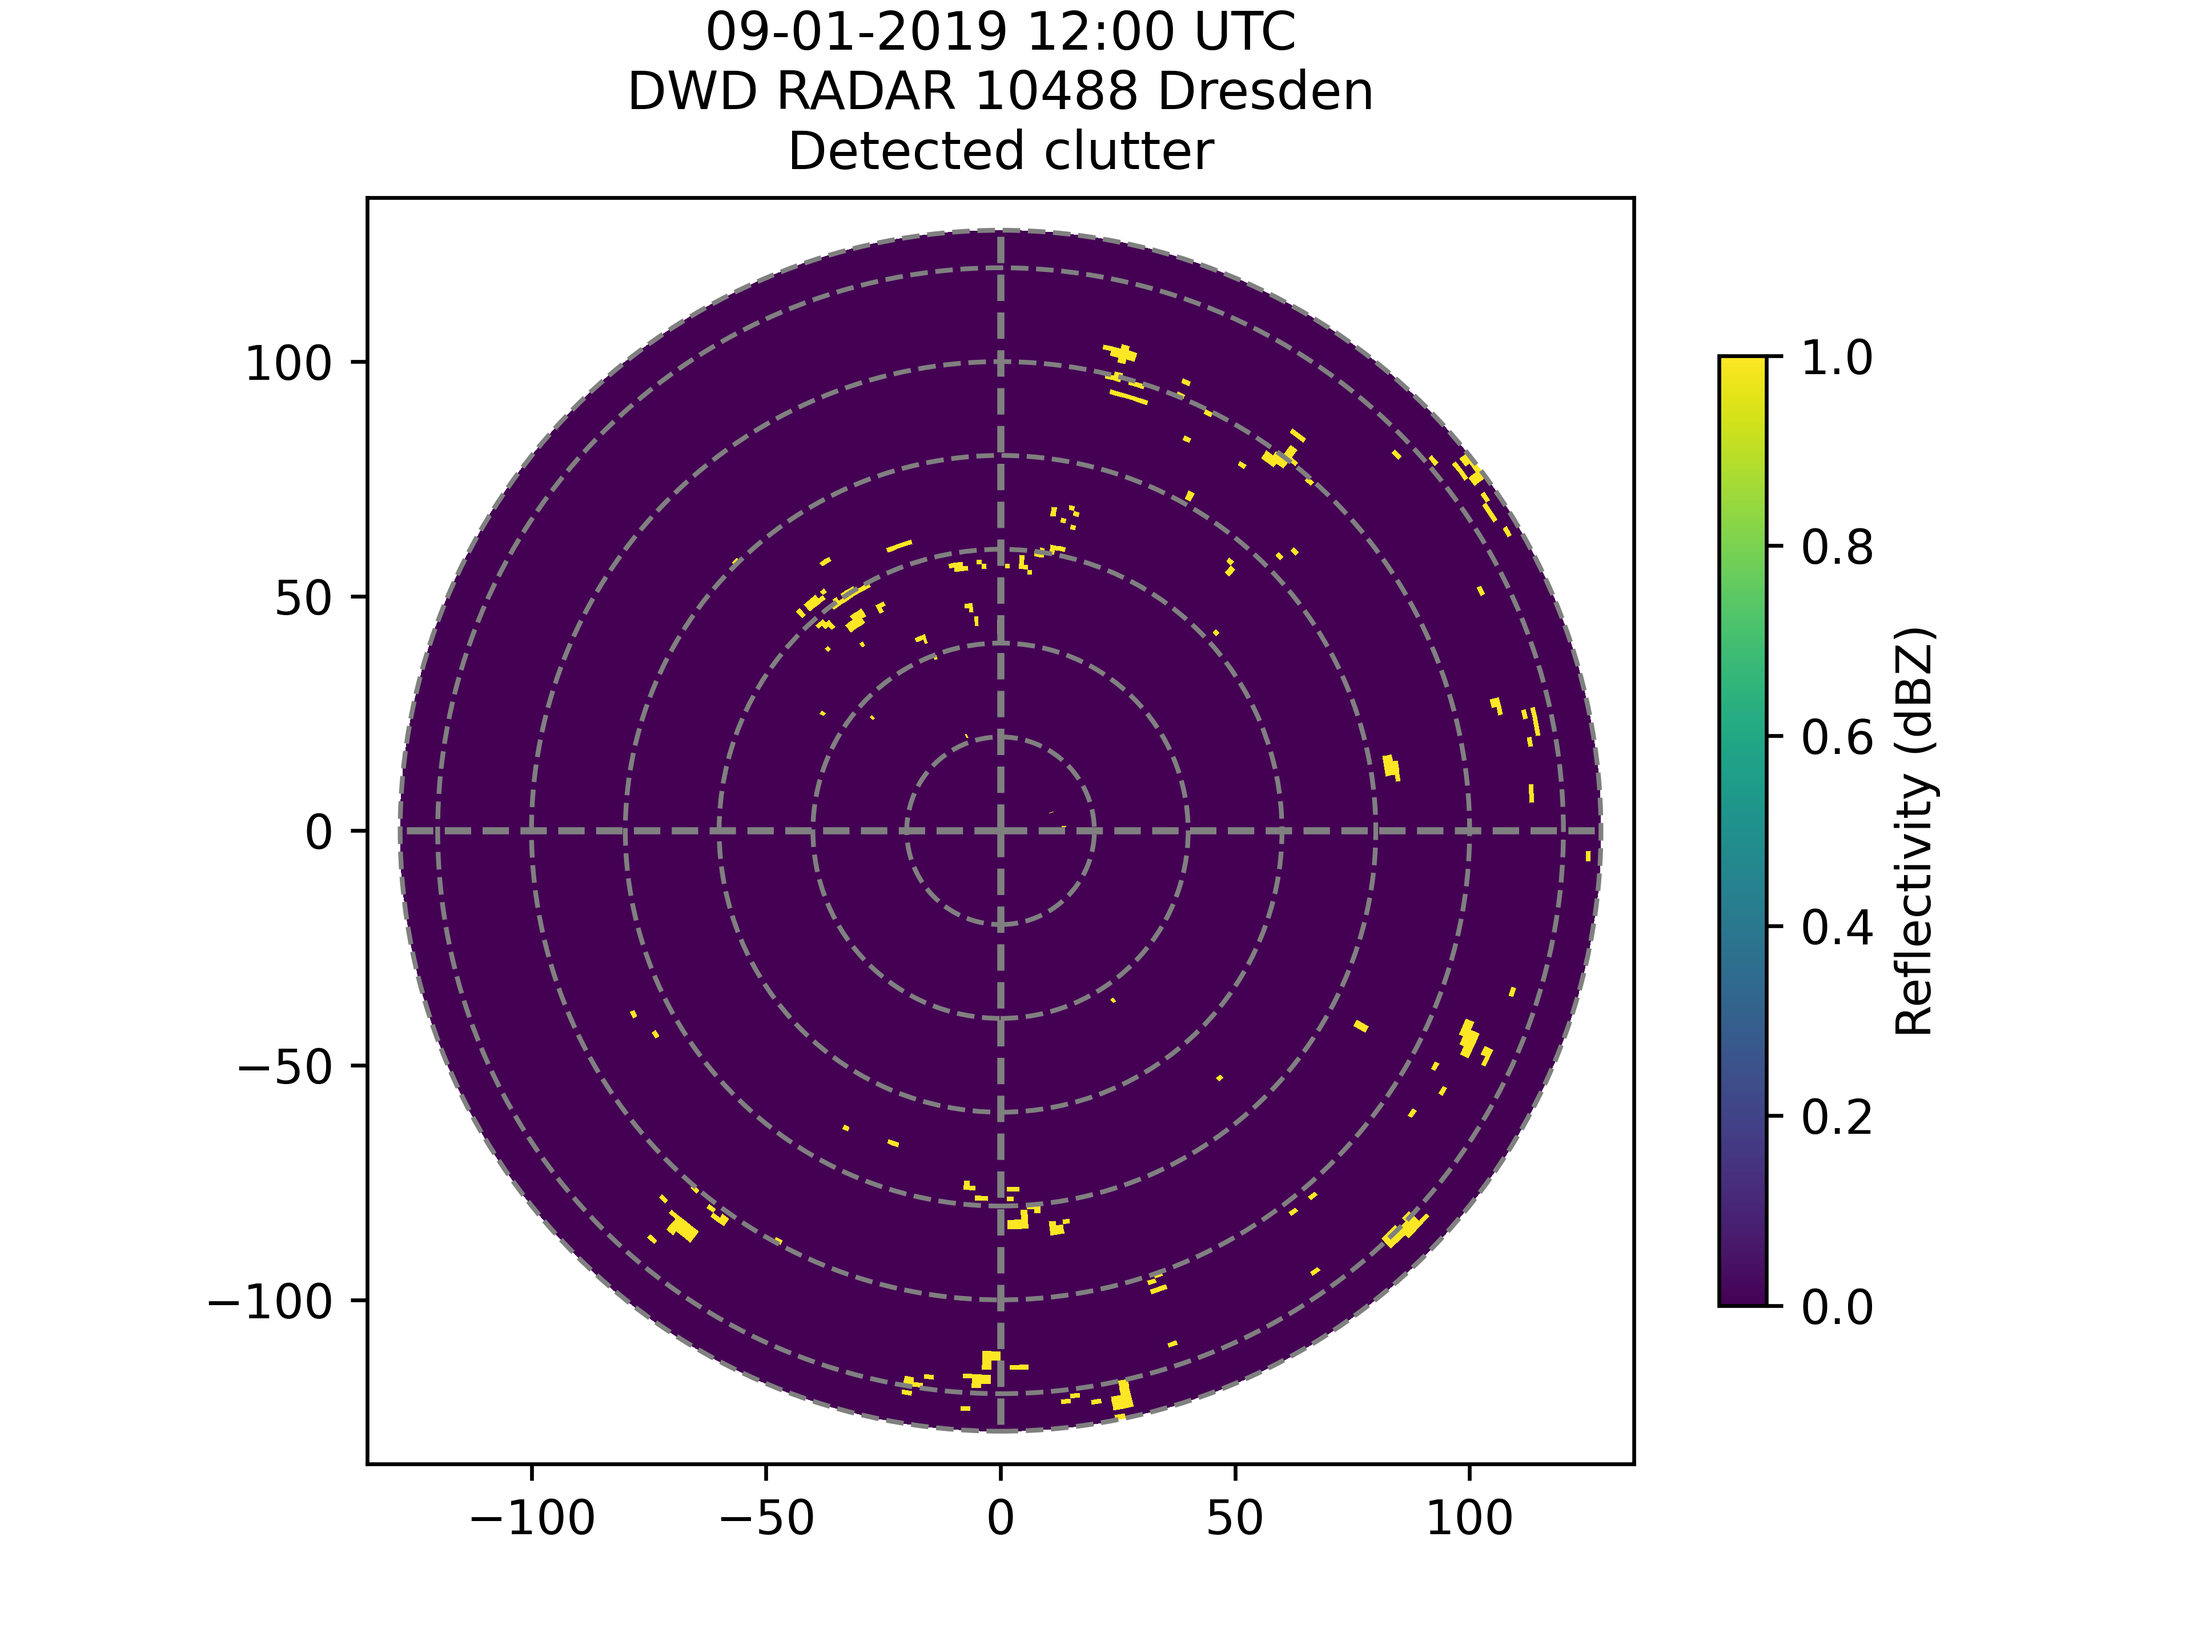
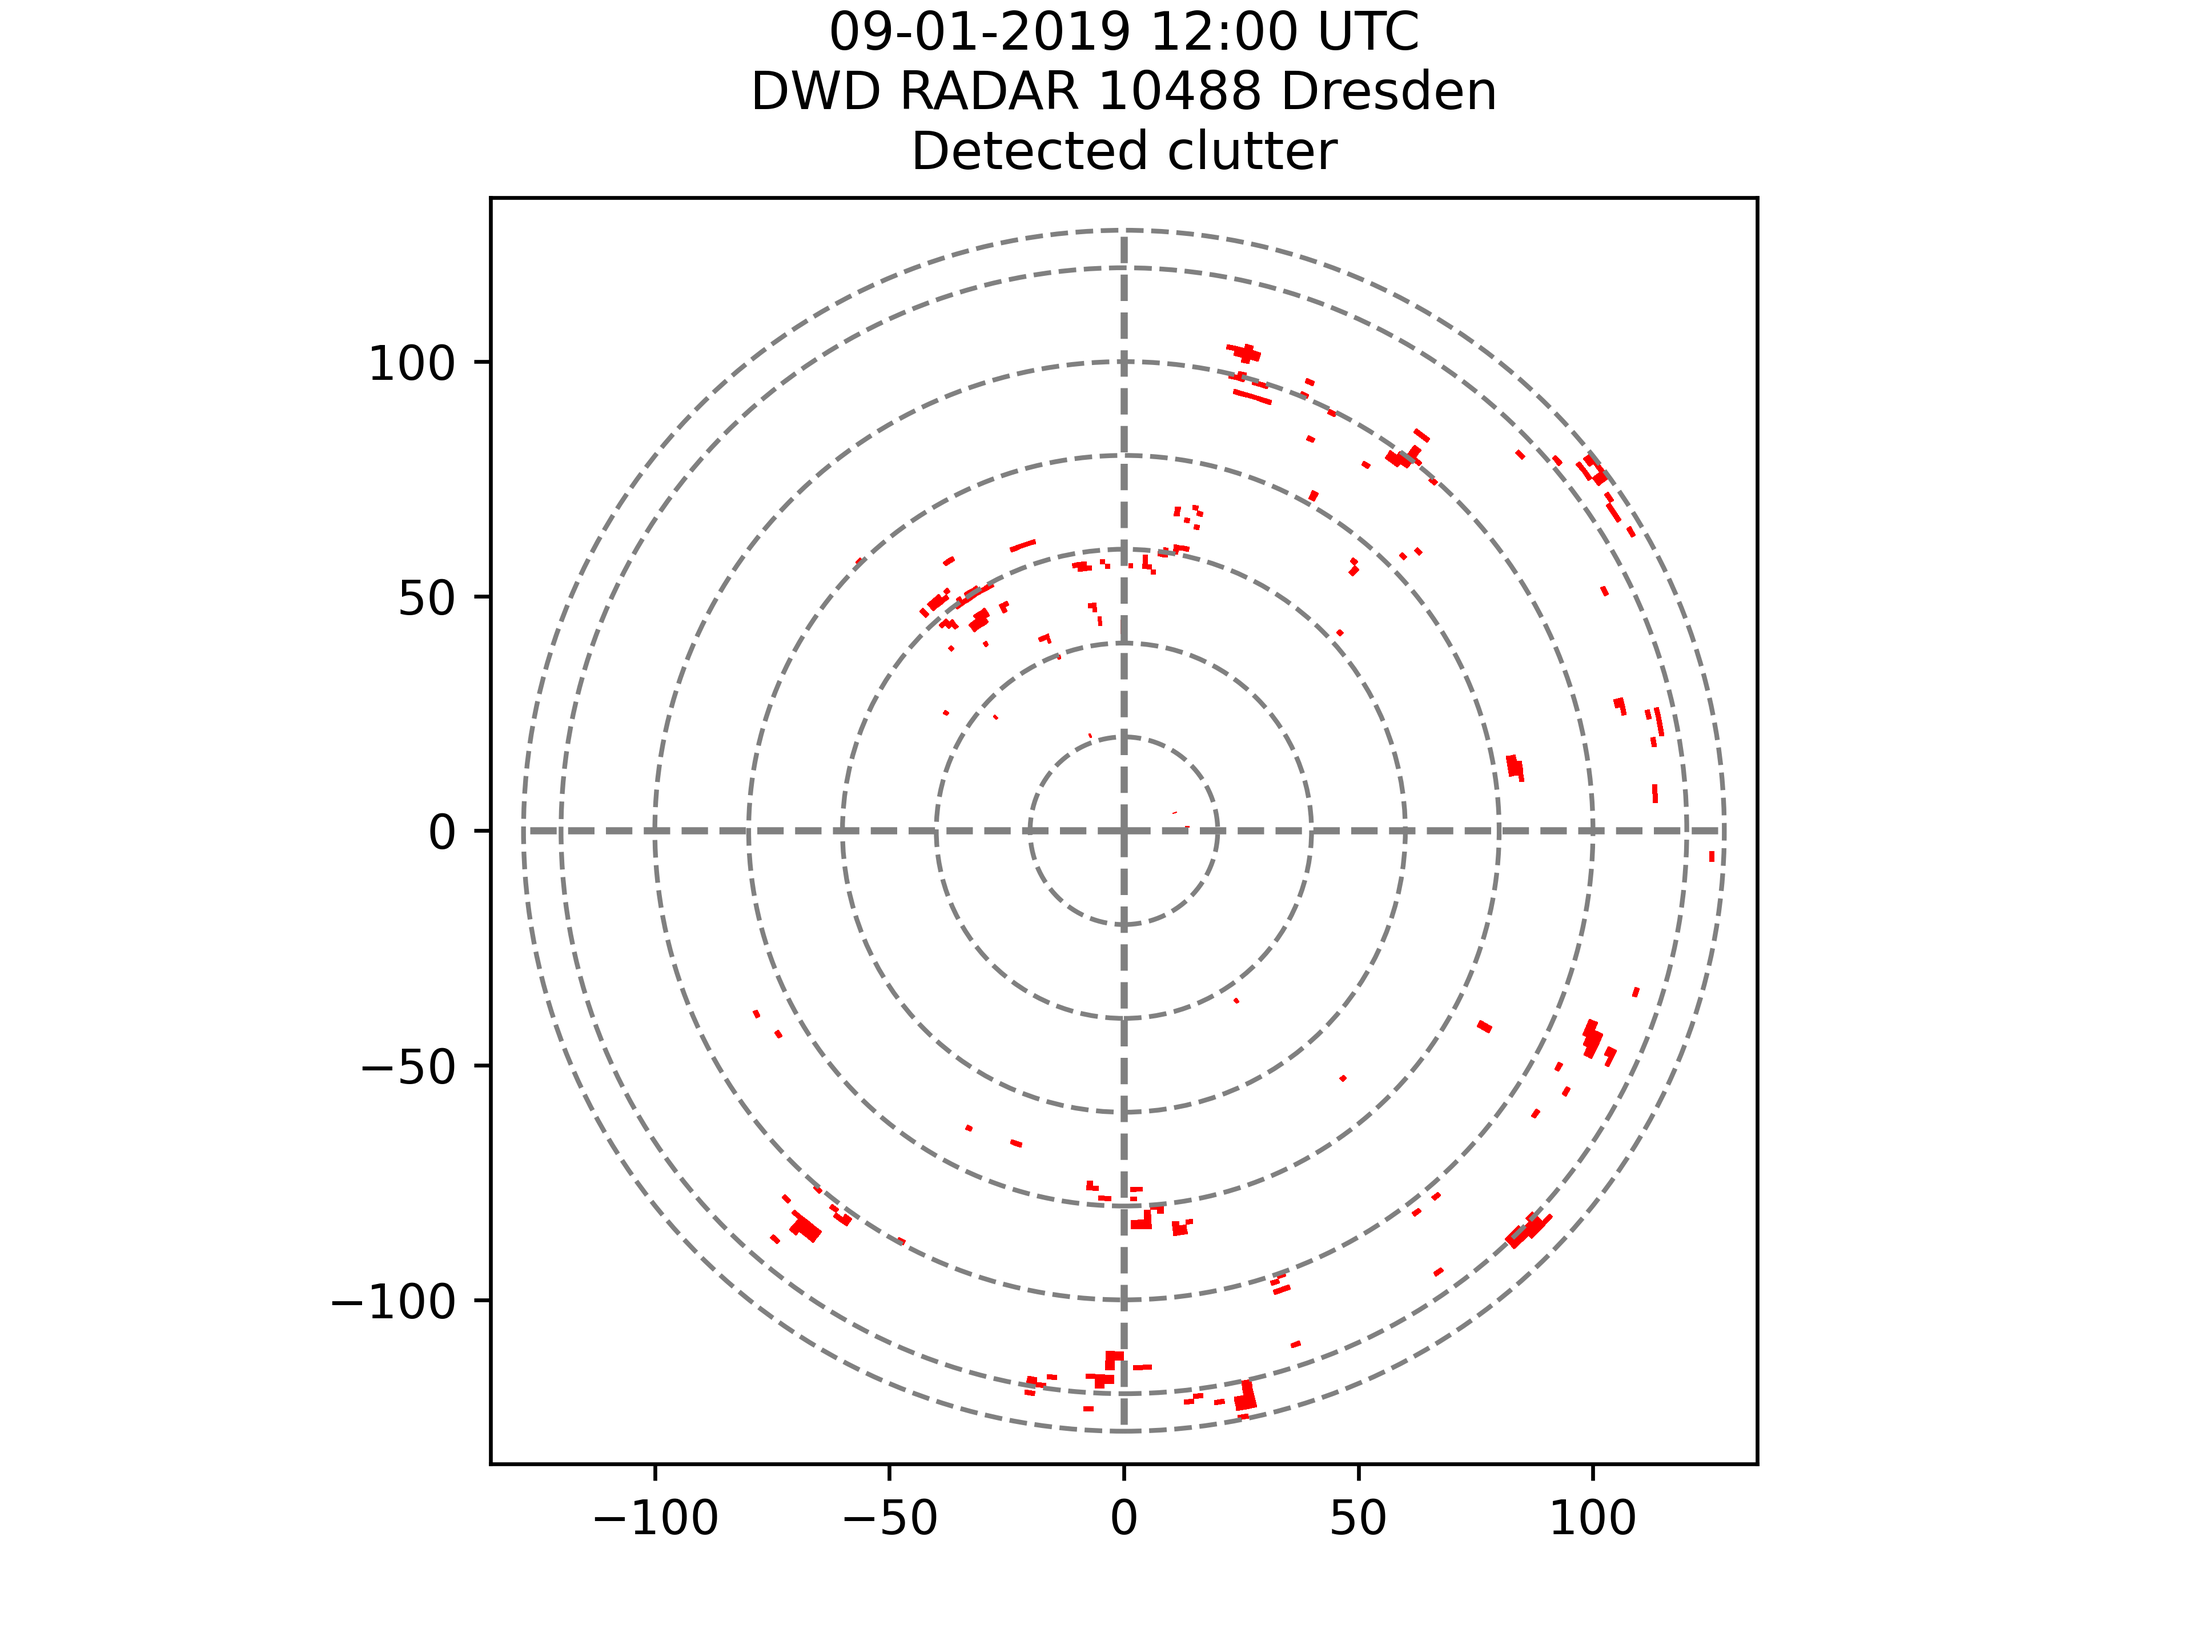
Change clutter plot cbar.

diff --git a/code/func.py b/code/func.py
@@ -3,7 +3,7 @@ import matplotlib.pylab as pl
 import wradlib as wrl
 import numpy as np
 
-from colorbar import cm
+from colorbar import cm, cm_binary
 
 
 def metadata(filename):
@@ -24,13 +24,14 @@ def metadata(filename):
     return site_abb, site_text, dt
 
 
-def plot_radar(data, filename, subtitle, what, cm="viridis", cbarlabel = "Reflectivity (dBZ)"):
+def plot_radar(data, filename, subtitle, what, cm="viridis", cbarlabel = "Reflectivity (dBZ)", plot_cbar = True):
     site_abb, site_text, dt = metadata(filename)
     pl.figure(figsize=(10,8))
     ax, pm = wrl.vis.plot_ppi(data, cmap=cm)
     ax = wrl.vis.plot_ppi_crosshair((0,0,0), ranges=[20,40,60,80,100,120,128])
-    cbar = pl.colorbar(pm, shrink=0.75)
-    cbar.set_label(cbarlabel)
+    if plot_cbar == True:
+        cbar = pl.colorbar(pm, shrink=0.75)
+        cbar.set_label(cbarlabel)
     pl.xlim([-135, 135])
     pl.ylim([-135, 135])
     pl.title(f'{dt.strftime("%d-%m-%Y %H:%M")} UTC\n{site_text}\n{subtitle}', fontsize=11)
@@ -47,7 +48,7 @@ def clutter_gabella(data, filename):
     clmap = wrl.clutter.filter_gabella(data, wsize=5, thrsnorain=0., tr1=6., n_p=8, tr2=1.3)
     data_no_clutter = wrl.ipol.interpolate_polar(data, clmap)
     site_abb, site_text, dt = metadata(filename)
-    plot_radar(data=clmap, filename=filename, what="cluttermap", subtitle="Detected clutter")
+    plot_radar(data=clmap, filename=filename, what="cluttermap", subtitle="Detected clutter", cm=cm_binary, plot_cbar=False)
     plot_radar(data=data_no_clutter, filename=filename, what="noclutter", subtitle="After clutter correction")    
     return clmap, data_no_clutter    
 

diff --git a/code/colorbar.py b/code/colorbar.py
@@ -3,6 +3,8 @@ from matplotlib.colors import LinearSegmentedColormap
 
 # define colors (list of RGB tuples: left blue, right red)
 colors = [(1,1,1,0), (0,0.19,1), (0,0.69,1), (0.44,1,0.56), (1,1,0), (1,0.69,0), (1,0,0), (0.5,0,0)]
+colors2 = [(1,1,1,0), (1,0,0)]
 
 # Create colormap with 150 bins: few bins > discrete colorbar
 cm = LinearSegmentedColormap.from_list("new_jet", colors, N=100) 
+cm_binary = LinearSegmentedColormap.from_list("new_jet", colors2, N=2) 
